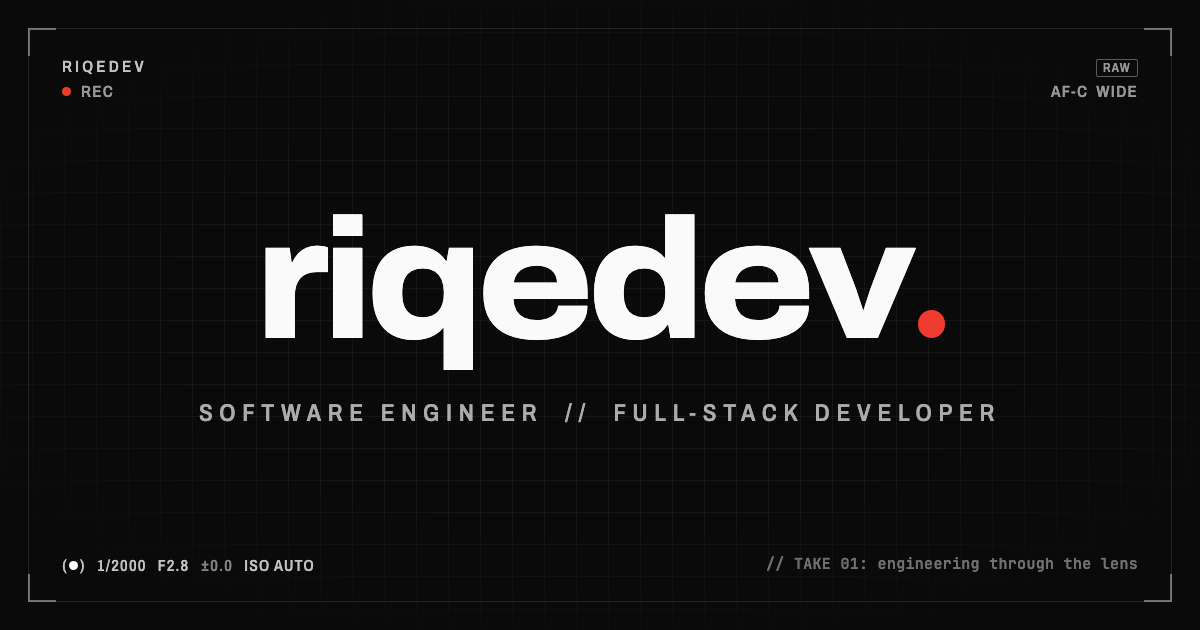
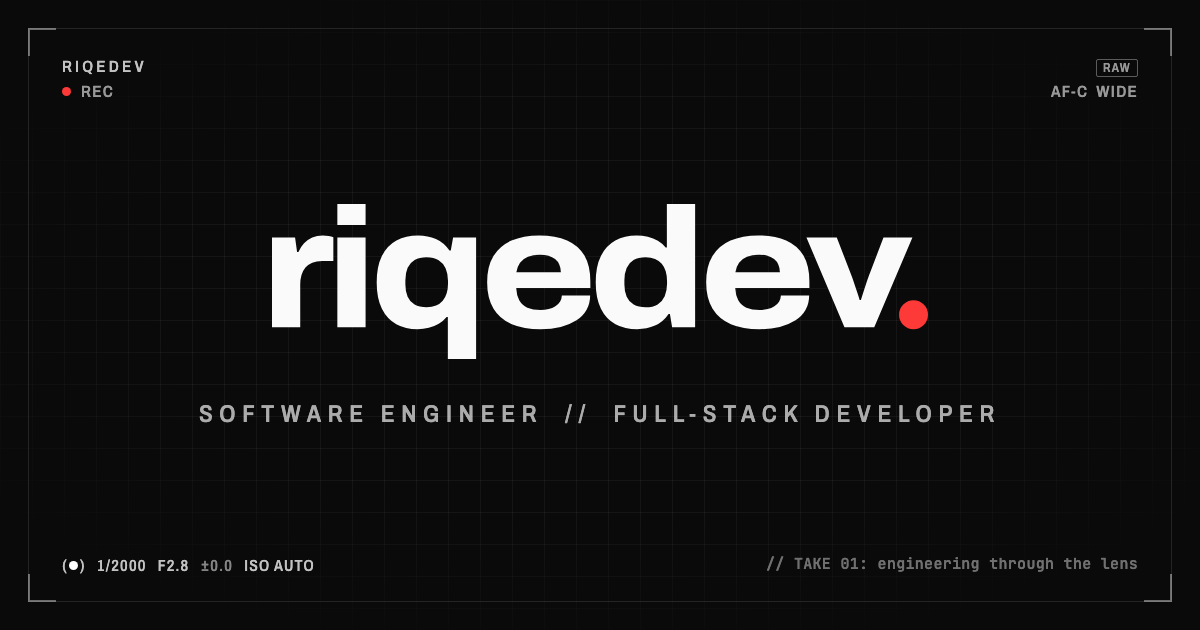
Apply brand R02: SVG wordmark, refined dot, unified radii and contrast
- Wordmark and dock monogram drawn as SVG from riqedev-brand geometry:
  dot at stroke width (0.17em), centered where Archivo sets its period,
  0.012em overshoot, custom ri/ed/ev kerning, weight 770 on dark.
- RecDot for live headlines follows the same rule; display drops to 770 on dark.
- Favicons, social card and email signature logo regenerated from the kit.
- Light link and warn darkened to pass 4.5:1; dialogs use radius-2xl.
- DESIGN.md: brand concept and R02 specs.

diff --git a/src/lib/brand-geometry.ts b/src/lib/brand-geometry.ts
@@ -1,0 +1,17 @@
+/* riqedev: geometría de la marca (R02). Generado por riqedev-brand/scripts/export-geometry.mjs, no editar a mano. */
+/* Unidades de fuente: 1 em = 1000, y hacia abajo, línea base en y = 0. "Dark" = peso 770 para tinta clara sobre oscuro. */
+
+export type BrandMark = {
+  d: string;
+  dot: { cx: number; cy: number; r: number };
+  box: [number, number, number, number];
+};
+
+export const BRAND_GEOMETRY = {
+  wordmark: {"d":"M64.1 0V-527.2H201.9L213.8 -441.8H221.5Q234.6 -471 255.1 -493.2Q275.5 -515.3 303.5 -527.5Q331.5 -539.7 365 -539.7Q383.9 -539.7 400.2 -536.6Q416.4 -533.4 427.7 -528.8V-387.6H360.8Q327.3 -387.6 303 -377.6Q278.8 -367.7 263.2 -349.1Q247.7 -330.6 240.2 -305.4Q232.7 -280.2 232.7 -249.5V0ZM451.1 -600.4V-724.2H619.7V-600.4ZM451.1 0V-527.2H619.7V0ZM1102.6 188V-58.6H1095.4Q1076.1 -34.9 1049.2 -19.1Q1022.4 -3.3 990.6 4.3Q958.8 12 924.9 12Q854.1 12 799.8 -17.7Q745.6 -47.5 715 -108.6Q684.3 -169.7 684.3 -263.2Q684.3 -357.5 714.9 -418.6Q745.6 -479.7 800.6 -509.5Q855.6 -539.2 929.1 -539.2Q984.9 -539.2 1032.8 -518.1Q1080.7 -497 1112.4 -450H1120.1L1133.9 -527.2H1271.2V188ZM978.9 -117.9Q1010.6 -117.9 1034.1 -127.9Q1057.6 -138 1073 -156.1Q1088.3 -174.2 1096 -199.8Q1103.6 -225.4 1103.6 -256.4V-271.3Q1103.6 -313.2 1090.1 -344.2Q1076.6 -375.2 1049.1 -392.2Q1021.6 -409.3 979.4 -409.3Q936.6 -409.3 909.2 -393.6Q881.9 -377.9 868.6 -347.9Q855.4 -318 855.4 -275.9V-251Q855.4 -209.7 868.5 -179.9Q881.6 -150 909 -134Q936.4 -117.9 978.9 -117.9ZM1650.9 12Q1553 12 1482.5 -17.4Q1412 -46.8 1374.2 -107.9Q1336.3 -169 1336.3 -263.5Q1336.3 -356.8 1373.7 -417.9Q1411 -479 1480.1 -509.1Q1549.2 -539.2 1644.4 -539.2Q1741.1 -539.2 1808.6 -509.8Q1876 -480.5 1911.2 -420.6Q1946.3 -360.8 1946.3 -268.6V-229.6H1509.8Q1511.5 -186.6 1527.4 -158Q1543.4 -129.3 1574.5 -115.4Q1605.7 -101.6 1651.7 -101.6Q1677 -101.6 1699.3 -107.3Q1721.6 -113.1 1738.6 -124Q1755.6 -134.9 1765.5 -150.7Q1775.4 -166.4 1776.2 -186.4H1945Q1945 -139.7 1924.1 -102.7Q1903.2 -65.7 1864.3 -40.2Q1825.5 -14.7 1771.3 -1.4Q1717.2 12 1650.9 12ZM1510.8 -322.8H1770.2Q1770.2 -348.2 1761.4 -367.2Q1752.7 -386.2 1736.6 -399.3Q1720.5 -412.4 1698.3 -418.9Q1676.1 -425.4 1649.2 -425.4Q1607.5 -425.4 1578.1 -413.3Q1548.6 -401.3 1532.1 -378.4Q1515.5 -355.5 1510.8 -322.8ZM2222.1 12Q2148.6 12 2093.6 -17.7Q2038.6 -47.5 2007.9 -108.7Q1977.3 -170 1977.3 -264Q1977.3 -358 2008 -418.9Q2038.6 -479.7 2092.8 -509.5Q2147.1 -539.2 2217.9 -539.2Q2251.8 -539.2 2283.9 -531.7Q2315.9 -524.1 2342.9 -508.4Q2369.8 -492.6 2388.4 -468.4H2395.6V-724.2H2564.2V0H2426.9L2413.8 -77.3H2406.1Q2373.7 -29.7 2325.9 -8.9Q2278.2 12 2222.1 12ZM2272.4 -117.9Q2314.6 -117.9 2342.1 -135Q2369.6 -152 2383.1 -183Q2396.6 -213.9 2396.6 -255.4V-270.5Q2396.6 -301.8 2389 -327.4Q2381.3 -353 2365.8 -371.1Q2350.4 -389.2 2326.9 -399.3Q2303.4 -409.3 2271.9 -409.3Q2229.4 -409.3 2202 -393.3Q2174.6 -377.2 2161.5 -347.5Q2148.4 -317.7 2148.4 -275.6V-250.8Q2148.4 -209 2161.6 -179.1Q2174.9 -149.3 2202.2 -133.6Q2229.6 -117.9 2272.4 -117.9ZM2943.9 12Q2846 12 2775.5 -17.4Q2705 -46.8 2667.2 -107.9Q2629.3 -169 2629.3 -263.5Q2629.3 -356.8 2666.7 -417.9Q2704 -479 2773.1 -509.1Q2842.2 -539.2 2937.4 -539.2Q3034.1 -539.2 3101.6 -509.8Q3169 -480.5 3204.2 -420.6Q3239.3 -360.8 3239.3 -268.6V-229.6H2802.8Q2804.5 -186.6 2820.4 -158Q2836.4 -129.3 2867.5 -115.4Q2898.7 -101.6 2944.7 -101.6Q2970 -101.6 2992.3 -107.3Q3014.6 -113.1 3031.6 -124Q3048.6 -134.9 3058.5 -150.7Q3068.4 -166.4 3069.2 -186.4H3238Q3238 -139.7 3217.1 -102.7Q3196.2 -65.7 3157.3 -40.2Q3118.5 -14.7 3064.3 -1.4Q3010.2 12 2943.9 12ZM2803.8 -322.8H3063.2Q3063.2 -348.2 3054.4 -367.2Q3045.7 -386.2 3029.6 -399.3Q3013.5 -412.4 2991.3 -418.9Q2969.1 -425.4 2942.2 -425.4Q2900.5 -425.4 2871.1 -413.3Q2841.6 -401.3 2825.1 -378.4Q2808.5 -355.5 2803.8 -322.8ZM3445.2 0 3221.6 -527.2H3402.9L3488.1 -305.1Q3494.1 -289.8 3502.5 -264Q3510.9 -238.3 3520.2 -211Q3529.4 -183.7 3536 -161.5H3543.4Q3550.1 -182.9 3558.7 -210Q3567.4 -237.2 3576 -263.1Q3584.6 -289 3590.9 -305.5L3674.9 -527.2H3847.6L3623.2 0Z","dot":{"cx":3854.9,"cy":-73,"r":85},"box":[64.1,-724.2,3939.9,188]},
+  wordmarkDark: {"d":"M64.4 0V-527.2H200L211.8 -441.5H219.5Q232.4 -470.6 252.6 -492.8Q272.9 -515 300.8 -527.3Q328.7 -539.6 362.5 -539.6Q381.2 -539.6 397.4 -536.5Q413.6 -533.4 424.9 -528.8V-389.2H359Q325.4 -389.2 301 -379.2Q276.6 -369.1 261 -350.5Q245.4 -331.8 237.8 -306.5Q230.3 -281.1 230.3 -250.3V0ZM448.4 -601V-724.2H614.3V-601ZM448.4 0V-527.2H614.3V0ZM1097.7 187.4V-58.9H1090.6Q1071.3 -35.1 1044.4 -19.3Q1017.6 -3.4 985.7 4.3Q953.7 12 919.5 12Q848.9 12 794.8 -17.7Q740.7 -47.4 710.1 -108.6Q679.6 -169.7 679.6 -263.2Q679.6 -357.5 710.1 -418.6Q740.7 -479.7 795.6 -509.4Q850.5 -539.2 923.9 -539.2Q979.9 -539.2 1027.7 -518Q1075.6 -496.9 1107.2 -450H1114.9L1128.5 -527.2H1263.7V187.4ZM972.8 -116.6Q1004.7 -116.6 1028.4 -126.7Q1052.1 -136.7 1067.7 -155Q1083.2 -173.2 1090.9 -199.1Q1098.7 -225 1098.7 -256.6V-271.1Q1098.7 -313.7 1085 -345Q1071.3 -376.3 1043.6 -393.4Q1015.8 -410.6 973.3 -410.6Q930.1 -410.6 902.5 -394.8Q874.9 -379 861.5 -348.6Q848.1 -318.3 848.1 -275.5V-251.3Q848.1 -209.3 861.4 -179.1Q874.6 -148.9 902.2 -132.7Q929.9 -116.6 972.8 -116.6ZM1641.5 12Q1543.9 12 1473.8 -17.4Q1403.7 -46.8 1366.2 -107.9Q1328.6 -169 1328.6 -263.4Q1328.6 -356.8 1365.7 -417.9Q1402.7 -478.9 1471.5 -509.1Q1540.2 -539.2 1635.2 -539.2Q1731.4 -539.2 1798.5 -509.8Q1865.5 -480.4 1900.3 -420.7Q1935.1 -360.9 1935.1 -268.9V-229.7H1499.4Q1501.2 -186.3 1517.2 -157.4Q1533.3 -128.6 1564.7 -114.7Q1596.1 -100.7 1642.3 -100.7Q1667.5 -100.7 1689.9 -106.5Q1712.3 -112.2 1729.5 -123.2Q1746.7 -134.1 1756.8 -150Q1766.9 -165.9 1767.7 -186.2H1933.9Q1933.9 -139.5 1913.1 -102.6Q1892.3 -65.7 1853.7 -40.2Q1815 -14.7 1761.2 -1.4Q1707.3 12 1641.5 12ZM1500.4 -322.6H1761.8Q1761.8 -348.3 1752.9 -367.6Q1744.1 -386.8 1727.8 -400Q1711.5 -413.1 1689.2 -419.6Q1666.8 -426.1 1639.7 -426.1Q1597.9 -426.1 1568.2 -414Q1538.5 -402 1521.8 -378.8Q1505.2 -355.7 1500.4 -322.6ZM2210.9 12Q2137.5 12 2082.6 -17.7Q2027.7 -47.4 1997.1 -108.7Q1966.6 -169.9 1966.6 -264Q1966.6 -358 1997.1 -418.9Q2027.7 -479.7 2081.8 -509.4Q2135.9 -539.2 2206.5 -539.2Q2240.7 -539.2 2272.9 -531.6Q2305.1 -524 2332 -508.1Q2358.9 -492.2 2377.6 -468H2384.7V-724.2H2550.7V0H2415.5L2402.6 -77.2H2394.9Q2362.6 -29.8 2314.8 -8.9Q2267.1 12 2210.9 12ZM2260.3 -116.6Q2302.8 -116.6 2330.6 -133.7Q2358.3 -150.9 2372 -182.1Q2385.7 -213.4 2385.7 -255.5V-270.3Q2385.7 -302.1 2377.9 -328Q2370.2 -353.9 2354.5 -372.2Q2338.9 -390.4 2315.2 -400.5Q2291.5 -410.6 2259.8 -410.6Q2216.9 -410.6 2189.2 -394.4Q2161.6 -378.3 2148.4 -348.2Q2135.1 -318 2135.1 -275.3V-251.1Q2135.1 -208.6 2148.5 -178.4Q2161.9 -148.2 2189.5 -132.4Q2217.1 -116.6 2260.3 -116.6ZM2928.5 12Q2830.9 12 2760.8 -17.4Q2690.7 -46.8 2653.2 -107.9Q2615.6 -169 2615.6 -263.4Q2615.6 -356.8 2652.7 -417.9Q2689.7 -478.9 2758.5 -509.1Q2827.2 -539.2 2922.2 -539.2Q3018.4 -539.2 3085.5 -509.8Q3152.5 -480.4 3187.3 -420.7Q3222.1 -360.9 3222.1 -268.9V-229.7H2786.4Q2788.2 -186.3 2804.2 -157.4Q2820.3 -128.6 2851.7 -114.7Q2883.1 -100.7 2929.3 -100.7Q2954.5 -100.7 2976.9 -106.5Q2999.3 -112.2 3016.5 -123.2Q3033.7 -134.1 3043.8 -150Q3053.9 -165.9 3054.7 -186.2H3220.9Q3220.9 -139.5 3200.1 -102.6Q3179.3 -65.7 3140.7 -40.2Q3102 -14.7 3048.2 -1.4Q2994.3 12 2928.5 12ZM2787.4 -322.6H3048.8Q3048.8 -348.3 3039.9 -367.6Q3031.1 -386.8 3014.8 -400Q2998.5 -413.1 2976.2 -419.6Q2953.8 -426.1 2926.7 -426.1Q2884.9 -426.1 2855.2 -414Q2825.5 -402 2808.8 -378.8Q2792.2 -355.7 2787.4 -322.6ZM3428.2 0 3204.8 -527.2H3383.1L3469.3 -303.4Q3475.4 -288 3483.8 -262.2Q3492.3 -236.5 3501.6 -209.1Q3510.9 -181.8 3517.4 -159.6H3524.8Q3531.5 -181 3540.1 -208.1Q3548.8 -235.3 3557.4 -261.3Q3566.1 -287.2 3572.4 -303.8L3657.5 -527.2H3827.5L3603.3 0Z","dot":{"cx":3834.1,"cy":-73,"r":85},"box":[64.4,-724.2,3919.1,187.4]},
+  wordmarkSmall: {"d":"M64.1 0V-527.2H201.9L213.8 -441.8H221.5Q234.6 -471 255.1 -493.2Q275.5 -515.3 303.5 -527.5Q331.5 -539.7 365 -539.7Q383.9 -539.7 400.2 -536.6Q416.4 -533.4 427.7 -528.8V-387.6H360.8Q327.3 -387.6 303 -377.6Q278.8 -367.7 263.2 -349.1Q247.7 -330.6 240.2 -305.4Q232.7 -280.2 232.7 -249.5V0ZM471.1 -600.4V-724.2H639.7V-600.4ZM471.1 0V-527.2H639.7V0ZM1142.6 188V-58.6H1135.4Q1116.1 -34.9 1089.2 -19.1Q1062.4 -3.3 1030.6 4.3Q998.8 12 964.9 12Q894.1 12 839.8 -17.7Q785.6 -47.5 755 -108.6Q724.3 -169.7 724.3 -263.2Q724.3 -357.5 754.9 -418.6Q785.6 -479.7 840.6 -509.5Q895.6 -539.2 969.1 -539.2Q1024.9 -539.2 1072.8 -518.1Q1120.7 -497 1152.4 -450H1160.1L1173.9 -527.2H1311.2V188ZM1018.9 -117.9Q1050.6 -117.9 1074.1 -127.9Q1097.6 -138 1113 -156.1Q1128.3 -174.2 1136 -199.8Q1143.6 -225.4 1143.6 -256.4V-271.3Q1143.6 -313.2 1130.1 -344.2Q1116.6 -375.2 1089.1 -392.2Q1061.6 -409.3 1019.4 -409.3Q976.6 -409.3 949.2 -393.6Q921.9 -377.9 908.6 -347.9Q895.4 -318 895.4 -275.9V-251Q895.4 -209.7 908.5 -179.9Q921.6 -150 949 -134Q976.4 -117.9 1018.9 -117.9ZM1710.9 12Q1613 12 1542.5 -17.4Q1472 -46.8 1434.2 -107.9Q1396.3 -169 1396.3 -263.5Q1396.3 -356.8 1433.7 -417.9Q1471 -479 1540.1 -509.1Q1609.2 -539.2 1704.4 -539.2Q1801.1 -539.2 1868.6 -509.8Q1936 -480.5 1971.2 -420.6Q2006.3 -360.8 2006.3 -268.6V-229.6H1569.8Q1571.5 -186.6 1587.4 -158Q1603.4 -129.3 1634.5 -115.4Q1665.7 -101.6 1711.7 -101.6Q1737 -101.6 1759.3 -107.3Q1781.6 -113.1 1798.6 -124Q1815.6 -134.9 1825.5 -150.7Q1835.4 -166.4 1836.2 -186.4H2005Q2005 -139.7 1984.1 -102.7Q1963.2 -65.7 1924.3 -40.2Q1885.5 -14.7 1831.3 -1.4Q1777.2 12 1710.9 12ZM1570.8 -322.8H1830.2Q1830.2 -348.2 1821.4 -367.2Q1812.7 -386.2 1796.6 -399.3Q1780.5 -412.4 1758.3 -418.9Q1736.1 -425.4 1709.2 -425.4Q1667.5 -425.4 1638.1 -413.3Q1608.6 -401.3 1592.1 -378.4Q1575.5 -355.5 1570.8 -322.8ZM2302.1 12Q2228.6 12 2173.6 -17.7Q2118.6 -47.5 2087.9 -108.7Q2057.3 -170 2057.3 -264Q2057.3 -358 2088 -418.9Q2118.6 -479.7 2172.8 -509.5Q2227.1 -539.2 2297.9 -539.2Q2331.8 -539.2 2363.9 -531.7Q2395.9 -524.1 2422.9 -508.4Q2449.8 -492.6 2468.4 -468.4H2475.6V-724.2H2644.2V0H2506.9L2493.8 -77.3H2486.1Q2453.7 -29.7 2405.9 -8.9Q2358.2 12 2302.1 12ZM2352.4 -117.9Q2394.6 -117.9 2422.1 -135Q2449.6 -152 2463.1 -183Q2476.6 -213.9 2476.6 -255.4V-270.5Q2476.6 -301.8 2469 -327.4Q2461.3 -353 2445.8 -371.1Q2430.4 -389.2 2406.9 -399.3Q2383.4 -409.3 2351.9 -409.3Q2309.4 -409.3 2282 -393.3Q2254.6 -377.2 2241.5 -347.5Q2228.4 -317.7 2228.4 -275.6V-250.8Q2228.4 -209 2241.6 -179.1Q2254.9 -149.3 2282.2 -133.6Q2309.6 -117.9 2352.4 -117.9ZM3043.9 12Q2946 12 2875.5 -17.4Q2805 -46.8 2767.2 -107.9Q2729.3 -169 2729.3 -263.5Q2729.3 -356.8 2766.7 -417.9Q2804 -479 2873.1 -509.1Q2942.2 -539.2 3037.4 -539.2Q3134.1 -539.2 3201.6 -509.8Q3269 -480.5 3304.2 -420.6Q3339.3 -360.8 3339.3 -268.6V-229.6H2902.8Q2904.5 -186.6 2920.4 -158Q2936.4 -129.3 2967.5 -115.4Q2998.7 -101.6 3044.7 -101.6Q3070 -101.6 3092.3 -107.3Q3114.6 -113.1 3131.6 -124Q3148.6 -134.9 3158.5 -150.7Q3168.4 -166.4 3169.2 -186.4H3338Q3338 -139.7 3317.1 -102.7Q3296.2 -65.7 3257.3 -40.2Q3218.5 -14.7 3164.3 -1.4Q3110.2 12 3043.9 12ZM2903.8 -322.8H3163.2Q3163.2 -348.2 3154.4 -367.2Q3145.7 -386.2 3129.6 -399.3Q3113.5 -412.4 3091.3 -418.9Q3069.1 -425.4 3042.2 -425.4Q3000.5 -425.4 2971.1 -413.3Q2941.6 -401.3 2925.1 -378.4Q2908.5 -355.5 2903.8 -322.8ZM3565.2 0 3341.6 -527.2H3522.9L3608.1 -305.1Q3614.1 -289.8 3622.5 -264Q3630.9 -238.3 3640.2 -211Q3649.4 -183.7 3656 -161.5H3663.4Q3670.1 -182.9 3678.7 -210Q3687.4 -237.2 3696 -263.1Q3704.6 -289 3710.9 -305.5L3794.9 -527.2H3967.6L3743.2 0Z","dot":{"cx":3994.9,"cy":-83,"r":95},"box":[64.1,-724.2,4089.9,188]},
+  wordmarkSmallDark: {"d":"M64.4 0V-527.2H200L211.8 -441.5H219.5Q232.4 -470.6 252.6 -492.8Q272.9 -515 300.8 -527.3Q328.7 -539.6 362.5 -539.6Q381.2 -539.6 397.4 -536.5Q413.6 -533.4 424.9 -528.8V-389.2H359Q325.4 -389.2 301 -379.2Q276.6 -369.1 261 -350.5Q245.4 -331.8 237.8 -306.5Q230.3 -281.1 230.3 -250.3V0ZM468.4 -601V-724.2H634.3V-601ZM468.4 0V-527.2H634.3V0ZM1137.7 187.4V-58.9H1130.6Q1111.3 -35.1 1084.4 -19.3Q1057.6 -3.4 1025.7 4.3Q993.7 12 959.5 12Q888.9 12 834.8 -17.7Q780.7 -47.4 750.1 -108.6Q719.6 -169.7 719.6 -263.2Q719.6 -357.5 750.1 -418.6Q780.7 -479.7 835.6 -509.4Q890.5 -539.2 963.9 -539.2Q1019.9 -539.2 1067.7 -518Q1115.6 -496.9 1147.2 -450H1154.9L1168.5 -527.2H1303.7V187.4ZM1012.8 -116.6Q1044.7 -116.6 1068.4 -126.7Q1092.1 -136.7 1107.7 -155Q1123.2 -173.2 1130.9 -199.1Q1138.7 -225 1138.7 -256.6V-271.1Q1138.7 -313.7 1125 -345Q1111.3 -376.3 1083.6 -393.4Q1055.8 -410.6 1013.3 -410.6Q970.1 -410.6 942.5 -394.8Q914.9 -379 901.5 -348.6Q888.1 -318.3 888.1 -275.5V-251.3Q888.1 -209.3 901.4 -179.1Q914.6 -148.9 942.2 -132.7Q969.9 -116.6 1012.8 -116.6ZM1701.5 12Q1603.9 12 1533.8 -17.4Q1463.7 -46.8 1426.2 -107.9Q1388.6 -169 1388.6 -263.4Q1388.6 -356.8 1425.7 -417.9Q1462.7 -478.9 1531.5 -509.1Q1600.2 -539.2 1695.2 -539.2Q1791.4 -539.2 1858.5 -509.8Q1925.5 -480.4 1960.3 -420.7Q1995.1 -360.9 1995.1 -268.9V-229.7H1559.4Q1561.2 -186.3 1577.2 -157.4Q1593.3 -128.6 1624.7 -114.7Q1656.1 -100.7 1702.3 -100.7Q1727.5 -100.7 1749.9 -106.5Q1772.3 -112.2 1789.5 -123.2Q1806.7 -134.1 1816.8 -150Q1826.9 -165.9 1827.7 -186.2H1993.9Q1993.9 -139.5 1973.1 -102.6Q1952.3 -65.7 1913.7 -40.2Q1875 -14.7 1821.2 -1.4Q1767.3 12 1701.5 12ZM1560.4 -322.6H1821.8Q1821.8 -348.3 1812.9 -367.6Q1804.1 -386.8 1787.8 -400Q1771.5 -413.1 1749.2 -419.6Q1726.8 -426.1 1699.7 -426.1Q1657.9 -426.1 1628.2 -414Q1598.5 -402 1581.8 -378.8Q1565.2 -355.7 1560.4 -322.6ZM2290.9 12Q2217.5 12 2162.6 -17.7Q2107.7 -47.4 2077.1 -108.7Q2046.6 -169.9 2046.6 -264Q2046.6 -358 2077.1 -418.9Q2107.7 -479.7 2161.8 -509.4Q2215.9 -539.2 2286.5 -539.2Q2320.7 -539.2 2352.9 -531.6Q2385.1 -524 2412 -508.1Q2438.9 -492.2 2457.6 -468H2464.7V-724.2H2630.7V0H2495.5L2482.6 -77.2H2474.9Q2442.6 -29.8 2394.8 -8.9Q2347.1 12 2290.9 12ZM2340.3 -116.6Q2382.8 -116.6 2410.6 -133.7Q2438.3 -150.9 2452 -182.1Q2465.7 -213.4 2465.7 -255.5V-270.3Q2465.7 -302.1 2457.9 -328Q2450.2 -353.9 2434.5 -372.2Q2418.9 -390.4 2395.2 -400.5Q2371.5 -410.6 2339.8 -410.6Q2296.9 -410.6 2269.2 -394.4Q2241.6 -378.3 2228.4 -348.2Q2215.1 -318 2215.1 -275.3V-251.1Q2215.1 -208.6 2228.5 -178.4Q2241.9 -148.2 2269.5 -132.4Q2297.1 -116.6 2340.3 -116.6ZM3028.5 12Q2930.9 12 2860.8 -17.4Q2790.7 -46.8 2753.2 -107.9Q2715.6 -169 2715.6 -263.4Q2715.6 -356.8 2752.7 -417.9Q2789.7 -478.9 2858.5 -509.1Q2927.2 -539.2 3022.2 -539.2Q3118.4 -539.2 3185.5 -509.8Q3252.5 -480.4 3287.3 -420.7Q3322.1 -360.9 3322.1 -268.9V-229.7H2886.4Q2888.2 -186.3 2904.2 -157.4Q2920.3 -128.6 2951.7 -114.7Q2983.1 -100.7 3029.3 -100.7Q3054.5 -100.7 3076.9 -106.5Q3099.3 -112.2 3116.5 -123.2Q3133.7 -134.1 3143.8 -150Q3153.9 -165.9 3154.7 -186.2H3320.9Q3320.9 -139.5 3300.1 -102.6Q3279.3 -65.7 3240.7 -40.2Q3202 -14.7 3148.2 -1.4Q3094.3 12 3028.5 12ZM2887.4 -322.6H3148.8Q3148.8 -348.3 3139.9 -367.6Q3131.1 -386.8 3114.8 -400Q3098.5 -413.1 3076.2 -419.6Q3053.8 -426.1 3026.7 -426.1Q2984.9 -426.1 2955.2 -414Q2925.5 -402 2908.8 -378.8Q2892.2 -355.7 2887.4 -322.6ZM3548.2 0 3324.8 -527.2H3503.1L3589.3 -303.4Q3595.4 -288 3603.8 -262.2Q3612.3 -236.5 3621.6 -209.1Q3630.9 -181.8 3637.4 -159.6H3644.8Q3651.5 -181 3660.1 -208.1Q3668.8 -235.3 3677.4 -261.3Q3686.1 -287.2 3692.4 -303.8L3777.5 -527.2H3947.5L3723.3 0Z","dot":{"cx":3974.1,"cy":-83,"r":95},"box":[64.4,-724.2,4069.1,187.4]},
+  monogramIcon: {"d":"M64.1 0V-527.2H201.9L213.8 -441.8H221.5Q234.6 -471 255.1 -493.2Q275.5 -515.3 303.5 -527.5Q331.5 -539.7 365 -539.7Q383.9 -539.7 400.2 -536.6Q416.4 -533.4 427.7 -528.8V-387.6H360.8Q327.3 -387.6 303 -377.6Q278.8 -367.7 263.2 -349.1Q247.7 -330.6 240.2 -305.4Q232.7 -280.2 232.7 -249.5V0Z","dot":{"cx":453.9,"cy":-83,"r":95},"box":[64.1,-539.7,548.9,12]},
+  monogramIconDark: {"d":"M64.4 0V-527.2H200L211.8 -441.5H219.5Q232.4 -470.6 252.6 -492.8Q272.9 -515 300.8 -527.3Q328.7 -539.6 362.5 -539.6Q381.2 -539.6 397.4 -536.5Q413.6 -533.4 424.9 -528.8V-389.2H359Q325.4 -389.2 301 -379.2Q276.6 -369.1 261 -350.5Q245.4 -331.8 237.8 -306.5Q230.3 -281.1 230.3 -250.3V0Z","dot":{"cx":450.1,"cy":-83,"r":95},"box":[64.4,-539.6,545.1,12]},
+} satisfies Record<string, BrandMark>;

diff --git a/src/components/shared/Wordmark.tsx b/src/components/shared/Wordmark.tsx
@@ -1,29 +1,56 @@
 import { cn } from "@/lib/utils";
+import { BRAND_GEOMETRY as G, type BrandMark } from "@/lib/brand-geometry";
 
 /**
- * Punto REC: círculo dibujado (no el glifo de la fuente) del grosor del trazo, para que
- * sea idéntico en cualquier tamaño y contexto. Se lee primero como punto final y, junto
- * al HUD, como el LED de grabación. Es el único rojo de la marca.
+ * Un trazo de la marca dibujado en em, con la geometría exacta del kit (riqedev-brand): escala con el
+ * font-size, se apoya en la línea base y lleva el kerning propio que el texto vivo no puede tener.
+ * `fromOrigin` arranca en el origen tipográfico (como el texto); sin él, en la tinta (íconos).
+ */
+const Mark = ({ mark, className, fromOrigin = true }: { mark: BrandMark; className?: string; fromOrigin?: boolean }) => {
+  const [ix0, y0, x1, y1] = mark.box;
+  const x0 = fromOrigin ? 0 : ix0;
+  return (
+    <svg
+      aria-hidden="true"
+      focusable="false"
+      viewBox={`${x0} ${y0} ${x1 - x0} ${y1 - y0}`}
+      className={cn("shrink-0", className)}
+      style={{ width: `${(x1 - x0) / 1000}em`, height: `${(y1 - y0) / 1000}em`, verticalAlign: `${-y1 / 1000}em` }}
+    >
+      <path fill="currentColor" d={mark.d} />
+      <circle className="fill-rec" cx={mark.dot.cx} cy={mark.dot.cy} r={mark.dot.r} />
+    </svg>
+  );
+};
+
+/**
+ * Punto de la marca en texto vivo (titulares como NO●SIGNAL): círculo dibujado del grosor del trazo, nunca
+ * el glifo ".". Centrado donde Archivo pone su propio punto y bajando lo mismo que las letras redondas.
+ * Es el único rojo de la marca.
  */
 export const RecDot = ({ className }: { className?: string }) => (
   <span
     aria-hidden="true"
-    className={cn("ml-[0.05em] inline-block size-[0.16em] shrink-0 rounded-full bg-rec align-baseline", className)}
+    className={cn("-ml-[0.04em] inline-block size-[0.17em] shrink-0 rounded-full bg-rec align-[-0.012em]", className)}
   />
 );
 
-/** Wordmark oficial: `riqedev` + punto REC, en la voz Display. */
-export const Wordmark = ({ className }: { className?: string }) => (
-  <span className={cn("display whitespace-nowrap", className)}>
-    riqedev
-    <RecDot />
+/**
+ * Wordmark oficial (R02): `riqedev` + punto, como SVG. Peso 780 sobre claro y 770 sobre oscuro (la tinta
+ * clara se ve más gruesa). `small` para anchos bajo 120 px: tracking más abierto y punto de ícono.
+ */
+export const Wordmark = ({ className, small = false }: { className?: string; small?: boolean }) => (
+  <span className={cn("inline-block whitespace-nowrap leading-none", className)}>
+    <span className="sr-only">riqedev</span>
+    <Mark mark={small ? G.wordmarkSmall : G.wordmark} className="inline dark:hidden" />
+    <Mark mark={small ? G.wordmarkSmallDark : G.wordmarkDark} className="hidden dark:inline" />
   </span>
 );
 
-/** Monograma oficial: `r` + punto REC. Para dock, favicon y avatares. */
+/** Monograma oficial: `r` + punto, con la geometría de ícono (punto de 0.19em). Para el dock. */
 export const Monogram = ({ className }: { className?: string }) => (
-  <span className={cn("display inline-flex items-baseline leading-none", className)} aria-hidden="true">
-    r
-    <RecDot />
+  <span className={cn("inline-flex items-center justify-center", className)} aria-hidden="true">
+    <Mark mark={G.monogramIcon} fromOrigin={false} className="block dark:hidden" />
+    <Mark mark={G.monogramIconDark} fromOrigin={false} className="hidden dark:block" />
   </span>
 );

diff --git a/design/og.html b/design/og.html
@@ -1,4 +1,4 @@
-<!doctype html><html><head><meta charset="utf-8"><style>
+<!doctype html><!-- Social card 1200×630. Wordmark: SVG del kit riqedev-brand (R02, peso 770 sobre oscuro). Render: navegador headless a 1200×630 → public/og.png --><html><head><meta charset="utf-8"><style>
 @font-face{font-family:A;src:url(../node_modules/@fontsource-variable/archivo/files/archivo-latin-wdth-normal.woff2) format('woff2');font-weight:100 900;font-stretch:62% 125%}
 @font-face{font-family:J;src:url(../node_modules/@fontsource-variable/jetbrains-mono/files/jetbrains-mono-latin-wght-normal.woff2) format('woff2');font-weight:100 900}
 *{margin:0;box-sizing:border-box}
@@ -11,12 +11,12 @@ body{width:1200px;height:630px;background:#0a0a0a;color:#fafafa;font-family:A;po
 .osd{font-stretch:84%;font-weight:540;letter-spacing:.08em;text-transform:uppercase;font-variant-numeric:tabular-nums}
 .hud{position:absolute;top:58px;font-size:16px;color:#ffffff94}
 .l{left:62px}.r{right:62px;text-align:right}
-.dot{display:inline-block;width:9px;height:9px;border-radius:50%;background:#ef3b2d;margin-right:10px;vertical-align:1px}
+.dot{display:inline-block;width:9px;height:9px;border-radius:50%;background:#fd3a37;margin-right:10px;vertical-align:1px}
 .center{position:absolute;inset:0;display:flex;flex-direction:column;align-items:center;justify-content:center}
 .af{position:relative;padding:22px 40px}
 .af .c{border-color:#4ade80;width:30px;height:30px}
 h1{font-stretch:112%;font-weight:780;letter-spacing:-.04em;line-height:.9;font-size:170px}
-h1 span{display:inline-block;width:.16em;height:.16em;border-radius:50%;background:#ef3b2d;margin-left:.05em}
+h1 img{display:block;height:155px;width:auto}
 .sub{margin-top:42px;font-size:24px;letter-spacing:.28em;color:#ffffffa8}
 .foot{position:absolute;bottom:56px;font-size:15px;color:#ffffff6b}
 .mono{font-family:J;font-size:15px;letter-spacing:.02em;text-transform:none}
@@ -25,7 +25,7 @@ h1 span{display:inline-block;width:.16em;height:.16em;border-radius:50%;backgrou
 <div class="frame"><i class="c tl"></i><i class="c tr"></i><i class="c bl"></i><i class="c br"></i></div>
 <div class="hud l osd"><div style="color:#ffffffc0;letter-spacing:.2em">RIQEDEV</div><div style="margin-top:8px"><span class="dot"></span>REC</div></div>
 <div class="hud r osd"><div><span style="border:1px solid #ffffff55;padding:1px 6px;border-radius:2px;font-size:12px">RAW</span></div><div style="margin-top:8px">AF-C&nbsp;&nbsp;WIDE</div></div>
-<div class="center"><h1>riqedev<span></span></h1>
+<div class="center"><h1><img src="wordmark-dark.svg" alt="riqedev"></h1>
 <div class="sub osd">Software Engineer&nbsp;&nbsp;//&nbsp;&nbsp;Full-Stack Developer</div></div>
 <div class="foot l osd" style="color:#ffffffc0">(<span style="display:inline-block;width:9px;height:9px;border-radius:50%;background:#fff;margin:0 1px;vertical-align:1px"></span>)&nbsp;&nbsp;&nbsp;1/2000&nbsp;&nbsp;&nbsp;F2.8&nbsp;&nbsp;&nbsp;<span style="color:#ffffff80">±0.0</span>&nbsp;&nbsp;&nbsp;ISO AUTO</div>
 <div class="foot r osd mono" style="font-family:J">// TAKE 01: engineering through the lens</div>

diff --git a/src/index.css b/src/index.css
@@ -105,8 +105,8 @@
   --rec: oklch(0.58 0.22 27);
   --af: oklch(0.53 0.12 152);
   --info: oklch(0.55 0.17 255);
-  --link: oklch(0.56 0.1 210);
-  --warn: oklch(0.62 0.15 70);
+  --link: oklch(0.53 0.1 210);
+  --warn: oklch(0.55 0.15 70);
 
   --hud-strong: oklch(0.16 0 0 / 78%);
   --hud: oklch(0.16 0 0 / 60%);
@@ -171,14 +171,18 @@
   text-transform: uppercase;
 }
 
-/* Display: la voz de la marca. Archivo semiexpandido (112%), pesado y apretado.
-   El wordmark es `riqedev` en minúscula + punto REC redondo (ver <Wordmark />). */
+/* Display: la voz de la marca. Archivo semiexpandido (112%), pesado y apretado. En oscuro baja a 770:
+   la tinta clara se ve más gruesa (irradiación). El wordmark va como SVG (<Wordmark />), con la
+   geometría del kit riqedev-brand; esta clase queda para titulares de marca como NO●SIGNAL. */
 @utility display {
   font-family: var(--font-brand);
   font-stretch: 112%;
   font-weight: 780;
   letter-spacing: -0.04em;
   line-height: 0.9;
+  :where(.dark) & {
+    font-weight: 770;
+  }
 }
 
 /* Superficie de card: relleno plano + elevación por tokens. Sin degradados: con 4+ cards en

diff --git a/src/components/views/Home.tsx b/src/components/views/Home.tsx
@@ -4,7 +4,7 @@ import { HUDFrame } from "@/components/shared/HUDFrame";
 import { HUDHeader, HUDFooter } from "@/components/shared/HUDBar";
 import { FocusIndicator, FocusPull, Kbd } from "@/components/shared/hud";
 import { DURATION, EASE_OUT } from "@/lib/motion";
-import { RecDot } from "@/components/shared/Wordmark";
+import { Wordmark } from "@/components/shared/Wordmark";
 import { useCommandMenu } from "@/lib/command-menu";
 
 /**
@@ -39,8 +39,7 @@ export const Home = () => {
           <h1
             className="display cursor-default text-[14vw] text-foreground sm:text-[12.5vw] md:text-[11.5vw] lg:text-[9.5vw] xl:text-[8.25vw] 2xl:text-[7.5vw]"
           >
-            riqedev
-            <RecDot />
+            <Wordmark />
           </h1>
         </FocusPull>
 

diff --git a/src/components/shared/BioPopup.tsx b/src/components/shared/BioPopup.tsx
@@ -149,7 +149,7 @@ export const BioPopup = ({ open, onOpenChange }: BioPopupProps) => {
     <Dialog open={open} onOpenChange={onOpenChange}>
       <DialogContent
         showCloseButton={false}
-        className="group/card flex max-h-[85dvh] flex-col gap-0 overflow-hidden rounded-xl border-border bg-card p-0 sm:max-w-2xl"
+        className="group/card flex max-h-[85dvh] flex-col gap-0 overflow-hidden rounded-2xl border-border bg-card p-0 sm:max-w-2xl"
       >
         <div className="flex h-10 shrink-0 items-center justify-between gap-3 border-b border-border bg-muted/30 px-4">
           <div className="flex items-center gap-3 text-hud">

diff --git a/src/components/views/NotFound.tsx b/src/components/views/NotFound.tsx
@@ -44,7 +44,7 @@ export const NotFound = () => {
             // 404 // scene not found
           </span>
           <h1 className="display text-[13vw] sm:text-[12vw] md:text-[10vw] lg:text-[8vw] text-foreground">
-            NO<RecDot className="mx-[0.06em]" />SIGNAL
+            NO<RecDot className="ml-[0.055em] mr-[0.018em]" />SIGNAL
           </h1>
           <p className="text-xs md:text-sm font-mono text-muted-foreground max-w-md mt-2">
             {t.body}

diff --git a/src/components/layout/AppDock.tsx b/src/components/layout/AppDock.tsx
@@ -96,7 +96,7 @@ export const AppDock = () => {
                       )}
                     >
                       {item.type === "logo" ? (
-                        <Monogram className="-translate-y-[0.07em] text-[26px] md:text-[30px]" />
+                        <Monogram className="text-[26px] md:text-[30px]" />
                       ) : (
                         <item.icon
                           className="size-4 md:size-5"

diff --git a/DESIGN.md b/DESIGN.md
@@ -1,6 +1,7 @@
 # riqedev Design System — TAKE 01
 
-> **Engineering through the lens.** La ingeniería es el contenido; la cámara es el marco.
+> **Marca: hasta el último detalle.** Diseño y construyo software hasta el último detalle.
+> **Portfolio, TAKE 01: Engineering through the lens.** El escenario de esta toma es la cámara; la ingeniería es el contenido.
 
 Sistema de marca e interfaz de riqedev. Vive en tres lugares que deben decir lo mismo:
 
@@ -18,10 +19,14 @@ Sistema de marca e interfaz de riqedev. Vive en tres lugares que deben decir lo 
 
 ## 1. Principios
 
+**De la marca (aplican a todo):** hasta el último detalle. Enrique es ingeniero de software, creativo y detallista; le mueven el diseño en todas sus formas (industrial, arquitectura, moda), la fotografía, la música y las mentes brillantes que cruzan disciplinas, y todo eso entra en lo que hace. Cada decisión, por pequeña que sea, tiene una razón y se nota en el resultado; si un detalle no tiene razón, sobra. TAKE es una toma, en cine y en estudio: cada versión del portfolio puede tener otro escenario sin cambiar la marca. Frase de presentación: "Diseño y construyo software hasta el último detalle." Fuente completa: el design system riqedev en Claude y el kit `riqedev-brand`.
+
+**Del portfolio (TAKE 01):**
+
 1. **El visor no es el contenido.** Todo lo que rodea al contenido es HUD: tenue, condensado, inmóvil. Si un elemento del HUD llama más la atención que un proyecto, está mal calibrado.
 2. **Una señal, un significado.** Cada color de señal tiene exactamente un significado (ver §3). Nunca se usa como decoración.
 3. **Un solo momento por vista.** El focus pull del hero es el único movimiento orquestado. El resto responde a la persona (presionar, abrir, filtrar); nada se mueve solo para lucirse.
-4. **La cámara es referencia, no copia.** El HUD toma del visor de la Sony α6400 solo lo que se reconoce: `● REC` arriba a la izquierda, `RAW` y `AF-C WIDE` arriba a la derecha, lectura de exposición abajo (`(●)  1/2000  F2.8  ±0.0  ISO AUTO`). Batería, resolución, tarjeta y demás indicadores se omiten: cargan sin aportar. Lo que sí aparece se escribe como la cámara: `F2.8`, no `ƒ/2.8`.
+4. **La cámara es el escenario, tomado con criterio.** El HUD toma del visor de la Sony α6400 solo lo que se reconoce: `● REC` arriba a la izquierda, `RAW` y `AF-C WIDE` arriba a la derecha, lectura de exposición abajo (`(●)  1/2000  F2.8  ±0.0  ISO AUTO`). Batería, resolución, tarjeta y demás indicadores se omiten: cargan sin aportar. Lo que sí aparece se escribe como la cámara: `F2.8`, no `ƒ/2.8`.
 5. **Nada de HUD dentro del HUD.** El visor lo pone la vista. El contenido (wordmark, imágenes, cards) nunca lleva esquinas de visor ni recuadros de AF propios.
 
 Referencia de concepto: visor de una Sony α6400 grabando.
@@ -30,9 +35,9 @@ Referencia de concepto: visor de una Sony α6400 grabando.
 
 ## 2. Marca
 
-**Wordmark:** `riqedev` en minúscula + punto REC redondo, en la voz Display (Archivo wdth 112, wght 780, tracking −0.04em). Componente `<Wordmark />` en `src/components/shared/Wordmark.tsx`. El punto es `<RecDot />`: un círculo dibujado de 0.16em (el grosor del trazo) en `--rec`, nunca el glifo "." de la fuente.
+**Wordmark (R02, aprobado 2026-11-20):** `riqedev` en minúscula + punto redondo en `--rec`. Archivo wdth 112, wght 780 (770 con tinta clara sobre oscuro: la irradiación la engorda), tracking −0.04em y kerning propio `ri` −0.010 · `ed` −0.010 · `ev` −0.021em. El punto mide 0.17em (el grosor del trazo), se centra donde Archivo pone su propio "." (−0.04em tras la `v`) y baja 0.012em bajo la línea base, como las letras redondas. Bajo 120px de ancho, versión chica: tracking −0.02em y punto de 0.19em. `<Wordmark />` (`src/components/shared/Wordmark.tsx`) lo dibuja como SVG con la geometría del kit (`src/lib/brand-geometry.ts`, generado por `riqedev-brand`, no se edita a mano), porque el kerning y el peso por tema no se pueden pedir en CSS. `<RecDot />` (0.17em, mismas reglas) queda para titulares en texto vivo como NO●SIGNAL; nunca el glifo "." de la fuente.
 
-**Monograma:** `r` + punto REC (`<Monogram />`). En íconos el glifo se recorta a su tinta y ocupa ~70% de la baldosa en 16/32px y ~60% en 180/192px, con el punto a 0.19em (compensación óptica para que sobreviva a 16px). En el dock va a 26/30px para igualar el peso visual de los íconos de 20px. Dock, favicon (`public/favicon*.png`, `favicon.ico`), `apple-touch-icon.png`. Reemplaza al logo del gato con lentes (`public/Logo.png` queda solo como referencia en `/lab`).
+**Monograma:** `r` + punto REC (`<Monogram />`). En íconos el glifo se recorta a su tinta y ocupa ~70% de la baldosa en 16/32px y ~60% en 180/192px, con el punto a 0.19em (compensación óptica para que sobreviva a 16px), centrado donde Archivo pone su punto tras la `r` (−0.038em). En el dock va a 26/30px para igualar el peso visual de los íconos de 20px. Dock, favicon (`public/favicon*.png`, `favicon.ico`), `apple-touch-icon.png`. Reemplaza al logo del gato con lentes (`public/Logo.png` queda solo como referencia en `/lab`).
 
 **Aire mínimo:** la altura de la `r` a cada lado. Sin marcos propios: el visor ya lo pone la vista.
 
@@ -49,7 +54,7 @@ Referencia de concepto: visor de una Sony α6400 grabando.
 1. **Minúscula: `riqedev`.** Es un handle (GitHub, blog), y en minúscula se lee como lo que es: una firma digital, cercana y de oficio. La mayúscula expandida se lee como marca de hardware (el grabado de un cuerpo de cámara), que empuja hacia el nicho equivocado. Además la minúscula tiene silueta reconocible (la `q` baja, la `d` sube); en mayúscula la palabra es un bloque uniforme.
 2. **Archivo al 112%, peso ~780, tracking −0.04em.** Mantiene la familia del sistema (Archivo ya es la voz OSD), así que la marca y la interfaz son parientes sin ser iguales. Al 125% en minúscula se vuelve gorda y caricaturesca; al 100% se confunde con cualquier grotesca. 112% es presencia sin gritar. Descartadas: Inter (es la letra de la UI, la marca desaparecería), Geist (asociada al ecosistema Vercel), Space Grotesk y Unbounded (muy vistas en portfolios dev), Michroma (retro-cámara, el nicho otra vez), JetBrains Mono con cursor (cliché de "soy dev").
 3. **Punto final redondo, en rojo REC.** Es la decisión clave: el punto se lee **primero como puntuación** (seguro, terminado) y solo dentro del portfolio, junto al HUD, se lee **también como el LED de grabación**. Es un guiño, no una declaración: no exige saber de cámaras para funcionar. El cuadrado se descarta porque se lee como píxel y no existe en ningún REC real. El punto se dibuja (círculo de 0.16em, el grosor del trazo) en vez de usar el glifo de la fuente, para que sea idéntico en cualquier contexto.
-4. **¿"Nombre + punto de color" está trillado?** El recurso es común. Lo que lo salva acá es que tiene una segunda lectura propia (REC) y que se usa con disciplina: es el **único** rojo de la marca. Si algún día se siente gastado, la versión con punto en tinta (R02) mantiene la forma sin el acento.
+4. **¿"Nombre + punto de color" está trillado?** El recurso es común. Lo que lo salva acá es que tiene una segunda lectura propia (REC) y que se usa con disciplina: es el **único** rojo de la marca. Si algún día se siente gastado, la versión con punto en tinta mantiene la forma sin el acento. Desde 2026-11-20 el punto es también el concepto: el último detalle de la palabra, del grosor exacto del trazo y en el lugar exacto. Su REC es de la cámara y del estudio de grabación.
 5. **Monograma `r.`** en minúscula con el mismo punto rojo. A 16px sigue siendo distinguible (el punto es el ancla), es coherente con el wordmark y reemplaza al logo actual (gato con lentes) sin perder personalidad. Se descartan `R.` (monograma en R mayúscula es de los más vistos) y `RQ` (pierde la señal).
 6. **La cámara queda donde está bien:** en el escenario del portfolio (HUD, REC, PLAYBACK, TAKE 01) y como guiño en la foto de Flickr. No en el logo, no en la firma, no en el avatar.
 
@@ -57,7 +62,7 @@ Referencia de concepto: visor de una Sony α6400 grabando.
 
 Se probó destacar las letras q-e-d (*quod erat demonstrandum*) con hover en el nombre, un `∎ q.e.d.` al cierre del `career.log` y una sección en `/system`. Enrique lo sacó (2026-11-17): se siente trillado y su vínculo real es con la demostración matemática, no con la ingeniería. No reintroducirlo.
 
-**README de perfil** (`riqedev/riqedev`): usa el mismo wordmark, renderizado desde `design/readme-wordmark.html` (dark; los colores light están anotados en el archivo).
+**README de perfil** (`riqedev/riqedev`): usa el lockup R02 del kit `riqedev-brand` (`assets/wordmark-{dark,light}.png`, recortado a la tinta). La social card (`design/og.html`) usa `design/wordmark-dark.svg`, copiado del kit.
 
 ---
 
@@ -83,8 +88,8 @@ Base neutral (shadcn neutral, sin tinte). El 95% de la interfaz son neutros; las
 | `--rec` | Grabando / en vivo. Marca. | Punto del wordmark, REC del Home, `NO.SIGNAL`, selección de texto | `oklch(0.65 0.23 27)` | `oklch(0.58 0.22 27)` |
 | `--af` | Operativo, en curso | ONLINE, `Status: RUNNING`, cursor `> _`, "copiado" | `oklch(0.76 0.13 152)` | `oklch(0.53 0.12 152)` |
 | `--info` | Catálogo, archivo, lectura | CATALOG (Work) | `oklch(0.7 0.15 255)` | `oklch(0.55 0.17 255)` |
-| `--link` | Canal abierto, transmisión | OPEN FREQUENCY (Contact) | `oklch(0.82 0.11 205)` | `oklch(0.56 0.1 210)` |
-| `--warn` | Calibración, atención, sistema | CALIBRATION (/system) | `oklch(0.84 0.15 85)` | `oklch(0.62 0.15 70)` |
+| `--link` | Canal abierto, transmisión | OPEN FREQUENCY (Contact) | `oklch(0.82 0.11 205)` | `oklch(0.53 0.1 210)` |
+| `--warn` | Calibración, atención, sistema | CALIBRATION (/system) | `oklch(0.84 0.15 85)` | `oklch(0.55 0.15 70)` |
 
 Los semáforos de ventana (`WindowDots`) usan rec/warn/af, pero solo al interactuar con la card; en reposo son grises.
 
@@ -96,7 +101,7 @@ Los semáforos de ventana (`WindowDots`) usan rec/warn/af, pero solo al interact
 | `--hud` (58–60%) | Estado, labels de sección |
 | `--hud-faint` (42–45%) | Metadatos, valores en reposo |
 
-Antes el HUD usaba `/40` y no se leía. Estos niveles mantienen la jerarquía y pasan contraste para texto pequeño no esencial.
+Antes el HUD usaba `/40` y no se leía. `--hud-strong` y `--hud` pasan 4.5:1; `--hud-faint` da 3.1:1 (claro) y 3.9:1 (oscuro), así que es solo para metadatos no esenciales: lo que haya que leer va en `--hud`. `--link` y `--warn` claros se oscurecieron el 2026-11-20 para pasar 4.5:1 (4.79 y 4.78).
 
 ### Sintaxis
 
@@ -112,7 +117,7 @@ Tres familias, cada una con un trabajo. Todas self-hosted vía Fontsource (sin C
 
 | Rol | Spec | Uso | Clase |
 | --- | --- | --- | --- |
-| **Display** | Archivo · wdth 112 · wght 780 · tracking −0.04em · leading 0.9 | Wordmark y titulares de marca (NO.SIGNAL, TAKE 01). Una vez por pantalla. | `.display` |
+| **Display** | Archivo · wdth 112 · wght 780 (770 en oscuro) · tracking −0.04em · leading 0.9 | Titulares de marca en texto vivo (NO●SIGNAL, TAKE 01); el wordmark va como SVG. Una vez por pantalla. | `.display` |
 | **Heading** | Inter · wght 600 · tracking-tight · opsz auto | Títulos de sección y proyecto | `font-semibold tracking-tight` |
 | **Body** | Inter · wght 400 · leading-relaxed · máx. 64ch · negritas 600 | Prosa y UI | (default, `font-sans`) |
 | **OSD** | Archivo · wdth 84 · wght 540 · tracking 0.08em · mayúsculas · tabular-nums | HUD, etiquetas, chips, botones de sistema | `.osd` |
@@ -156,7 +161,7 @@ Headings con `text-wrap: balance`, párrafos con `text-wrap: pretty` (global en 
 
 ### Radios
 
-`2px` (`rounded-xs`) en chips y etiquetas del HUD (piezas de instrumento), `12px` en cards, `16px` en diálogos y dock.
+`2px` (`rounded-xs`) en chips y etiquetas del HUD (piezas de instrumento), `8px` (`rounded-md`) en botones, `14px` (`rounded-xl`) en cards, `18px` (`rounded-2xl`) en diálogos y dock. Base `--radius` 10px; el blog usa la misma escala.
 
 ### Layout
 
